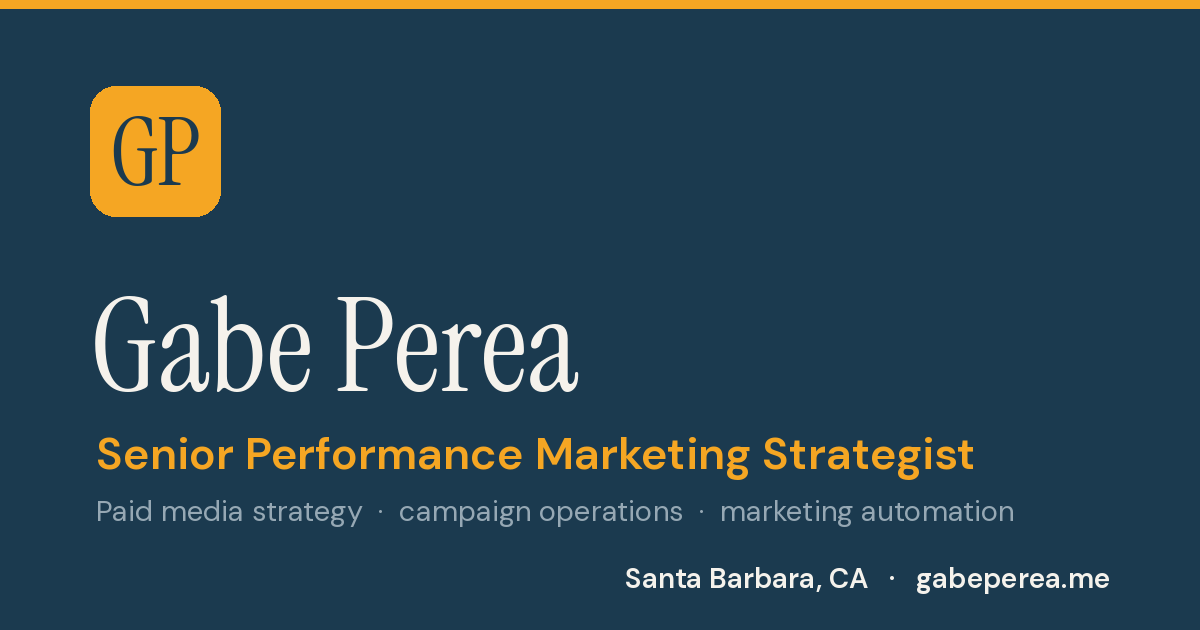
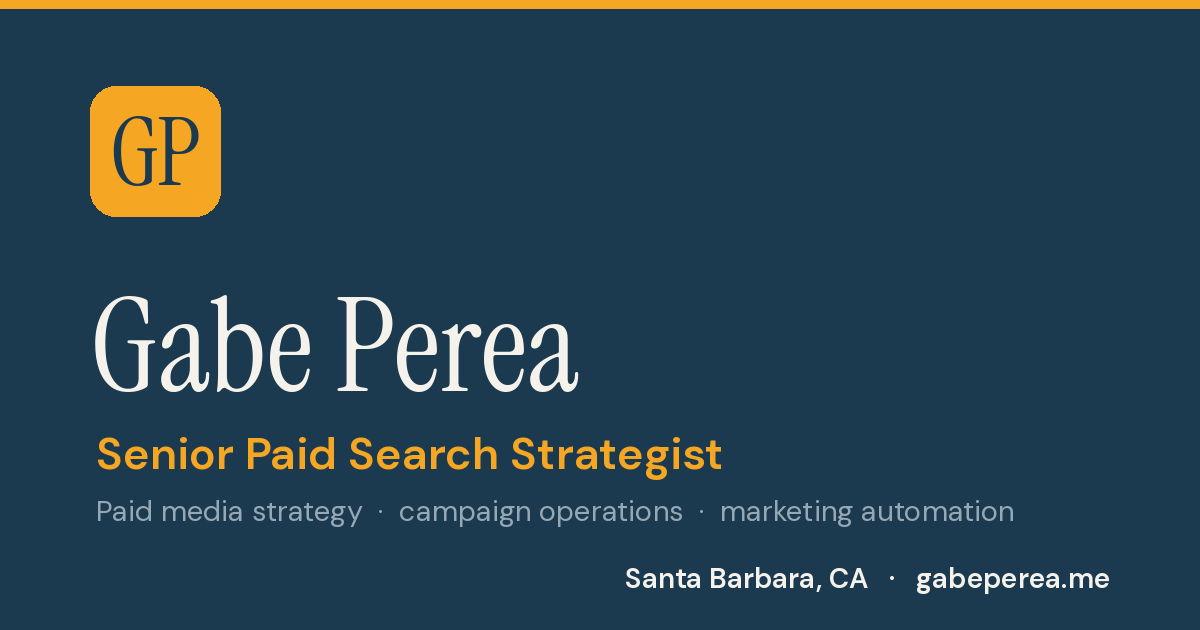
v3.6: retitle to Sr. Paid Search Strategist

Changed region(s): [[0.2158, 0.6937, 0.8325, 0.7841]]

diff --git a/index.html b/index.html
@@ -4,20 +4,20 @@
     <meta charset="UTF-8" />
     <link rel="icon" type="image/png" href="/gabe-perea-logo-transparent-background.png" />
     <meta name="viewport" content="width=device-width, initial-scale=1.0" />
-    <title>Gabe Perea - Senior Performance Marketing Strategist</title>
-    <meta name="description" content="Gabe Perea - Senior Performance Marketing Strategist based in Santa Barbara, CA. Paid media strategy, campaign operations, and marketing automation for franchise networks, national brands, and DTC e-commerce." />
-    <meta property="og:title" content="Gabe Perea - Senior Performance Marketing Strategist" />
-    <meta property="og:description" content="Senior performance marketing strategist in Santa Barbara, CA. Paid media, automation, and analysis for franchise and national brands." />
+    <title>Gabe Perea - Sr. Paid Search Strategist</title>
+    <meta name="description" content="Gabe Perea - Sr. Paid Search Strategist based in Santa Barbara, CA. Paid media strategy, campaign operations, and marketing automation for franchise networks, national brands, and DTC e-commerce." />
+    <meta property="og:title" content="Gabe Perea - Sr. Paid Search Strategist" />
+    <meta property="og:description" content="Senior paid search strategist in Santa Barbara, CA. Paid media, automation, and analysis for franchise and national brands." />
     <meta property="og:type" content="website" />
     <meta property="og:url" content="https://gabeperea.me" />
     <meta property="og:site_name" content="Gabe Perea" />
     <meta property="og:image" content="https://gabeperea.me/og-image.png" />
     <meta property="og:image:width" content="1200" />
     <meta property="og:image:height" content="630" />
-    <meta property="og:image:alt" content="Gabe Perea - Senior Performance Marketing Strategist" />
+    <meta property="og:image:alt" content="Gabe Perea - Sr. Paid Search Strategist" />
     <meta name="twitter:card" content="summary_large_image" />
-    <meta name="twitter:title" content="Gabe Perea - Senior Performance Marketing Strategist" />
-    <meta name="twitter:description" content="Senior performance marketing strategist in Santa Barbara, CA. Paid media, automation, and analysis for franchise and national brands." />
+    <meta name="twitter:title" content="Gabe Perea - Sr. Paid Search Strategist" />
+    <meta name="twitter:description" content="Senior paid search strategist in Santa Barbara, CA. Paid media, automation, and analysis for franchise and national brands." />
     <meta name="twitter:image" content="https://gabeperea.me/og-image.png" />
     <meta name="theme-color" content="#1b3a4f" />
     <link rel="canonical" href="https://gabeperea.me" />
@@ -26,7 +26,7 @@
       "@context": "https://schema.org",
       "@type": "Person",
       "name": "Gabe Perea",
-      "jobTitle": "Senior Performance Marketing Strategist",
+      "jobTitle": "Senior Paid Search Strategist",
       "url": "https://gabeperea.me",
       "image": "https://gabeperea.me/gabriel-perea.jpg",
       "email": "mailto:gabe@gabeperea.me",

diff --git a/dist-ssr/ssr-entry.js b/dist-ssr/ssr-entry.js
@@ -294,7 +294,7 @@ const tools = [
   "Yext"
 ];
 const specialties = [
-  "Performance Marketing Strategy",
+  "Paid Search Strategy",
   "Cross-Channel Media Planning",
   "Franchise & Multi-Location Scaling",
   "Marketing Automation",
@@ -1863,7 +1863,7 @@ function Portfolio() {
                   marginBottom: 16,
                   fontWeight: 600
                 },
-                children: "Senior Performance Marketing Strategist"
+                children: "Sr. Paid Search Strategist"
               }
             ),
             /* @__PURE__ */ jsx(
@@ -2379,7 +2379,7 @@ function Portfolio() {
                       marginTop: 12
                     },
                     children: [
-                      /* @__PURE__ */ jsx("p", { style: { margin: 0 }, children: "I'm a senior performance marketing strategist based in Santa Barbara, CA. I work on paid media strategy, campaign operations, and marketing automation for franchise networks, national brands, and DTC e-commerce. Over a decade in the field; managing $1M+ in monthly ad spend since 2020." }),
+                      /* @__PURE__ */ jsx("p", { style: { margin: 0 }, children: "I'm a senior paid search strategist based in Santa Barbara, CA. I work on paid media strategy, campaign operations, and marketing automation for franchise networks, national brands, and DTC e-commerce. Over a decade in the field; managing $1M+ in monthly ad spend since 2020." }),
                       /* @__PURE__ */ jsx("p", { style: { margin: 0 }, children: "Most of my work sits at the intersection of execution and analysis - running paid media programs, building the measurement and automation systems behind them, and digging into the data to understand what's actually working." }),
                       /* @__PURE__ */ jsx("p", { style: { margin: 0 }, children: "I also mentor junior team members and lead internal training on things like tCPA strategy, conversion tracking, Google Tag Manager, JavaScript for paid search, and budget forecasting." }),
                       /* @__PURE__ */ jsx("p", { style: { margin: 0, color: LIGHT_TEXT }, children: "Outside of paid media, I work on side projects involving systems, research, and writing. They keep me sharp on the parts of the job that aren't strictly platform mechanics." })

diff --git a/src/Portfolio.jsx b/src/Portfolio.jsx
@@ -318,7 +318,7 @@ const tools = [
 ];
 
 const specialties = [
-  "Performance Marketing Strategy",
+  "Paid Search Strategy",
   "Cross-Channel Media Planning",
   "Franchise & Multi-Location Scaling",
   "Marketing Automation",
@@ -1951,7 +1951,7 @@ export default function Portfolio() {
                 fontWeight: 600,
               }}
             >
-              Senior Performance Marketing Strategist
+              Sr. Paid Search Strategist
             </div>
             <h1
               style={{
@@ -2452,7 +2452,7 @@ export default function Portfolio() {
                 }}
               >
                 <p style={{ margin: 0 }}>
-                  I'm a senior performance marketing strategist based in Santa
+                  I'm a senior paid search strategist based in Santa
                   Barbara, CA. I work on paid media strategy, campaign
                   operations, and marketing automation for franchise networks,
                   national brands, and DTC e-commerce. Over a decade in the
